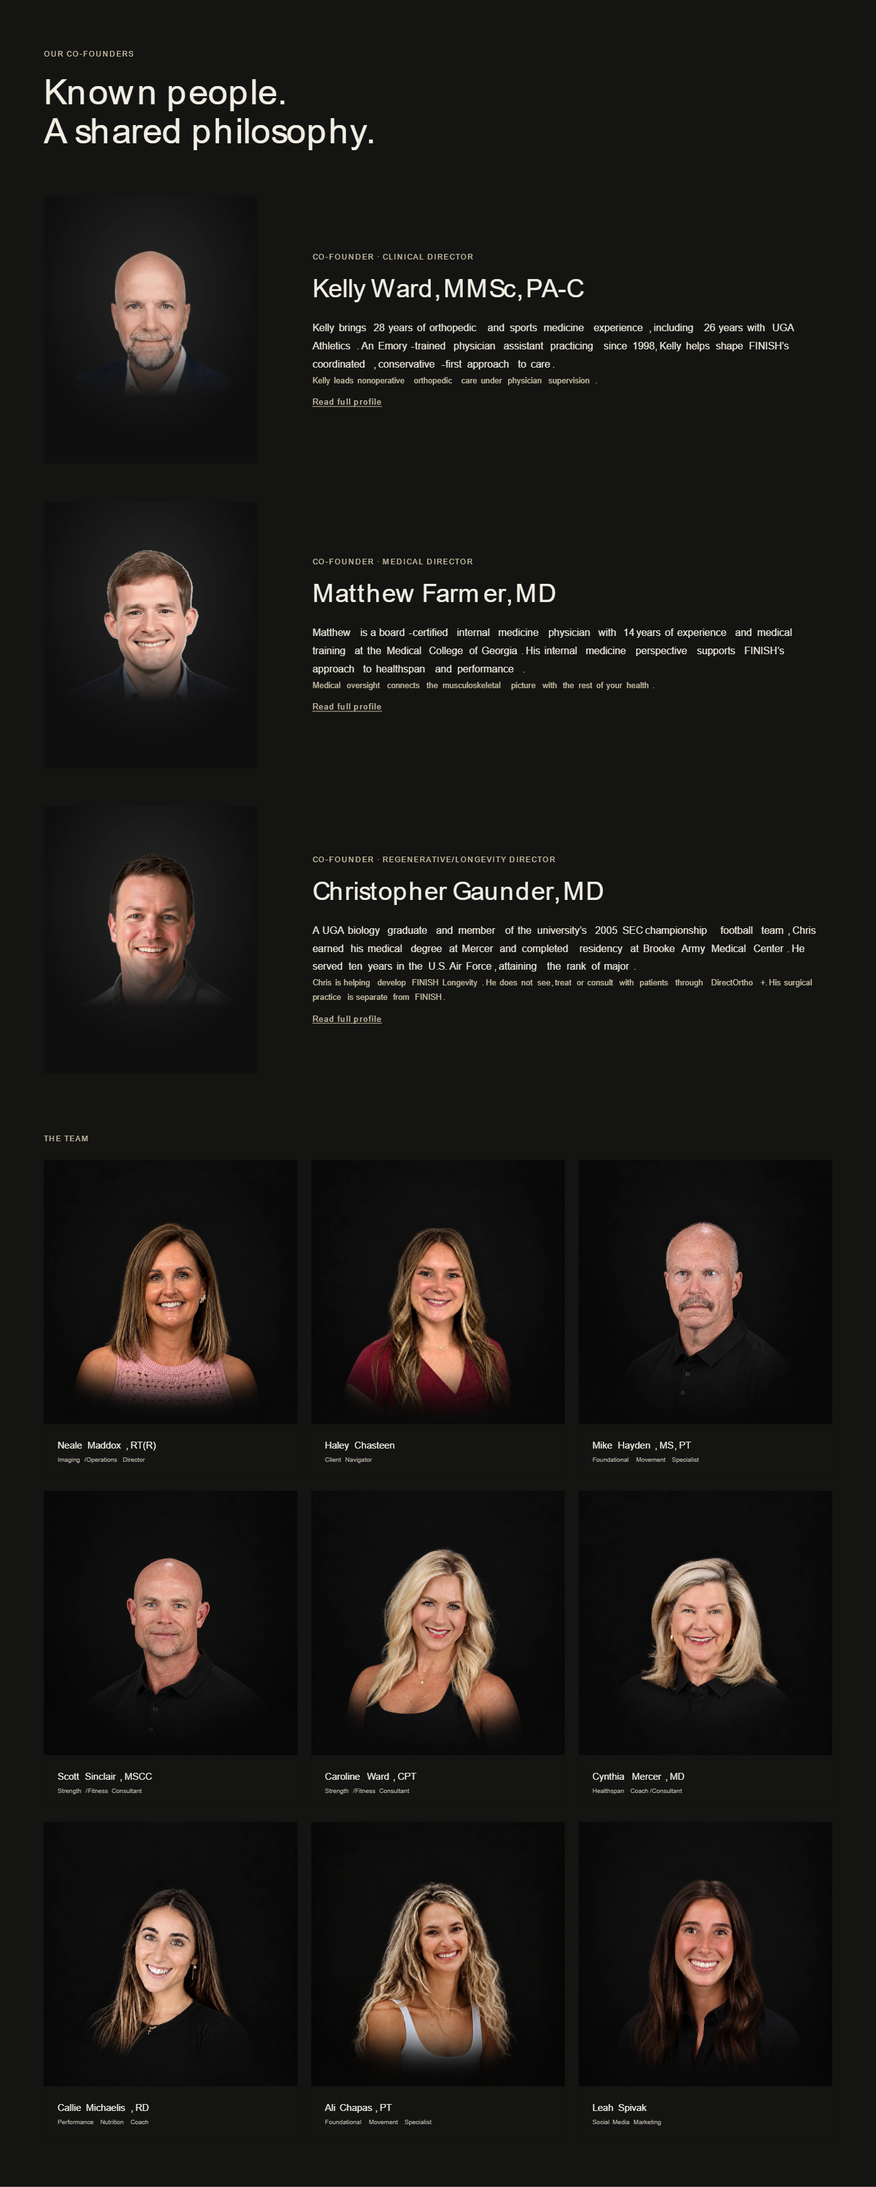
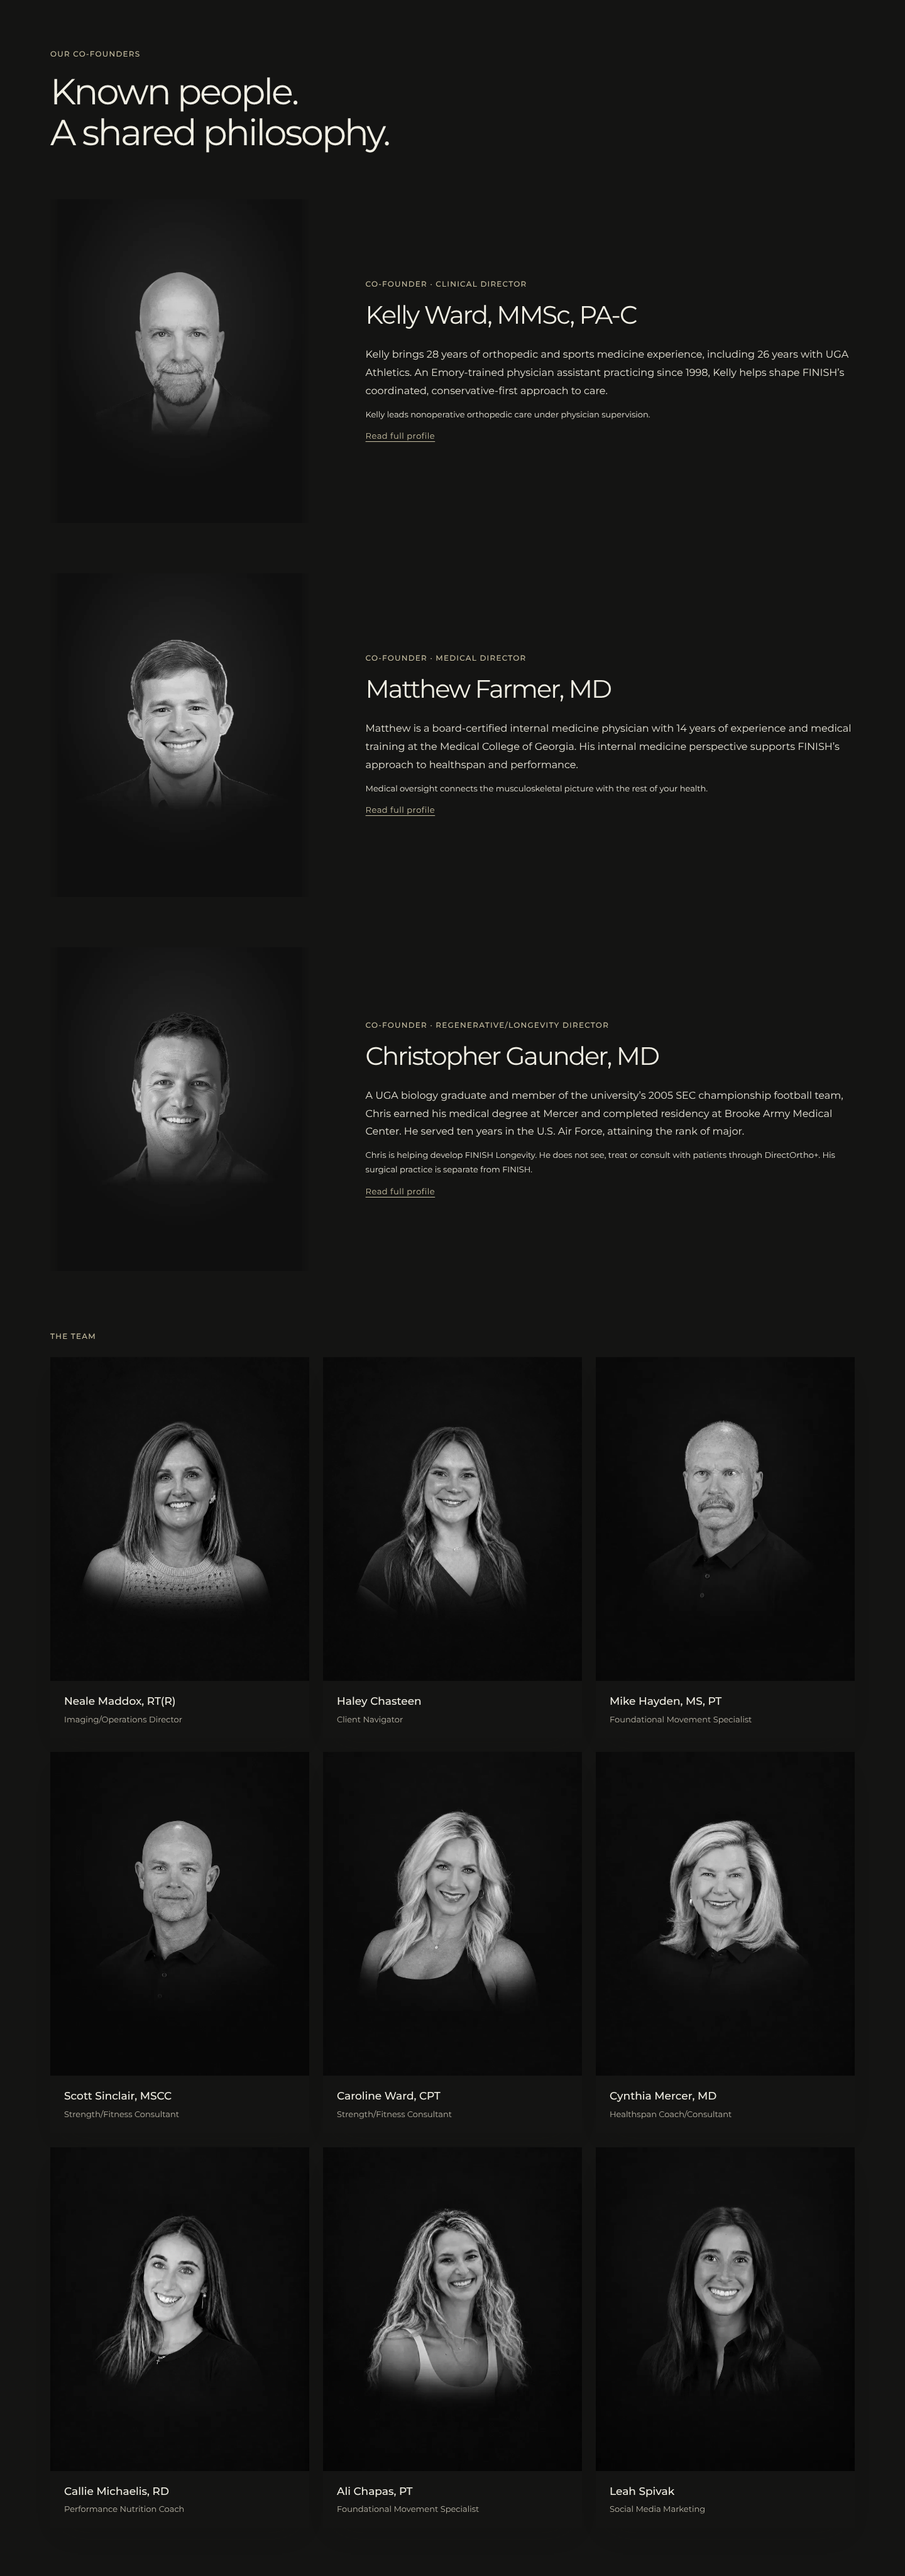
Mark Gaunder bio and screenshots done, update FINISH message
Gaunder's page now carries the About v8.5 bio and disclaimer. Desktop
and mobile screenshots retaken in a real browser.

Claude-Session: https://claude.ai/code/session_01KcfRr3QbJ1xTV9X5VhwLJz

diff --git a/finish-updates/index.html b/finish-updates/index.html
@@ -248,12 +248,12 @@ We are purpose driven. Our goal is to help the people of Athens stay strong, act
     <div class="th"><span class="tt" id="n19t9l">9. “Treat. Measure. Build.” section: replace the background</span><span class="chip done">Done</span><span class="src">FINISH team</span></div>
     <p class="now">Already replaced on staging: the section now uses a hands-on exam video instead of the artificial-joint visual.</p>
   </div></div>
-  <div class="task" data-k="n19t10"><input type="checkbox" id="n19t10" aria-labelledby="n19t10l"><div class="tb">
-    <div class="th"><span class="tt" id="n19t10l">10. Check all team links, then share screenshots</span><span class="chip dev">Revinok</span><span class="src">FINISH team, 19 Oct</span></div>
+  <div class="task" data-k="n19t10"><input type="checkbox" id="n19t10" aria-labelledby="n19t10l" checked><div class="tb">
+    <div class="th"><span class="tt" id="n19t10l">10. Check all team links, then share screenshots</span><span class="chip done">Done</span><span class="src">FINISH team, 19 Oct</span></div>
     <ul><li>Every About card and “Read full profile” link opens the right page, on desktop and mobile. Keep the mobile Home fix in QA.</li>
     <li>Share desktop and mobile screenshots of the About team section and the Home co-founders section.</li></ul>
     <p class="now"><b>Status 19 Oct: all 11 profile links open the right pages on desktop and mobile. Screenshots still to share once the photos are fixed.</b></p>
-    <p class="now"><b>19 Oct evening: desktop screenshots taken (screenshots/about-team-desktop.png and screenshots/home-cofounders-desktop.png). Mobile screenshots still to take.</b></p>
+    <p class="now"><b>Done 19 Oct evening: desktop and mobile screenshots of both sections are in the screenshots folder (about-team-desktop, home-cofounders-desktop, about-team-mobile-1 to 6, home-cofounders-mobile-1 to 3). They go with the status message to FINISH.</b></p>
   </div></div>
   <div class="task" data-k="n19t11"><input type="checkbox" id="n19t11" aria-labelledby="n19t11l"><div class="tb">
     <div class="th"><span class="tt" id="n19t11l">11. Healthspan membership value tables</span><span class="chip dev">Revinok</span><span class="src">FINISH team source, Healthspan v6.3</span></div>
@@ -324,8 +324,8 @@ As Medical Director, Dr. Farmer provides the clinical governance that holds FINI
     <li>Add <b>“Targeted re-test panel · $200”</b> to the service menu (Consultation and labs): “A focused re-draw of only the markers that came back off, to establish whether what you changed actually worked.”</li></ul>
     <p class="now"><b>Done on staging 19 Oct: “Unlimited messaging and support” is in all three tiers and the $200 targeted re-test panel is in the service menu. Annual fees stay hidden.</b></p>
   </div></div>
-  <div class="task" data-k="n19t17"><input type="checkbox" id="n19t17" aria-labelledby="n19t17l"><div class="tb">
-    <div class="th"><span class="tt" id="n19t17l">17. Christopher Gaunder’s own page: About v8.5 bio and separate-practice disclaimer</span><span class="chip dev">Revinok</span><span class="src">FINISH team, 19 Oct · About v8.5</span></div>
+  <div class="task" data-k="n19t17"><input type="checkbox" id="n19t17" aria-labelledby="n19t17l" checked><div class="tb">
+    <div class="th"><span class="tt" id="n19t17l">17. Christopher Gaunder’s own page: About v8.5 bio and separate-practice disclaimer</span><span class="chip done">Done</span><span class="src">FINISH team, 19 Oct · About v8.5</span></div>
     <p class="now"><b>Now on his page:</b> the old current-website bio, which says he “specializes in orthopedic injuries, including nonoperative and operative techniques”, and no clear disclaimer that he does not treat patients through DirectOrtho+.</p>
     <p>Replace the whole bio with the About v8.5 text below. The last paragraph is the separate-practice disclaimer and must stay. Keep the title “Co-Founder · Regenerative/Longevity Director”.</p>
     <div class="copy"><div class="lbl"><span>Christopher Gaunder, MD · own page bio</span><button class="cp" type="button" data-copy="n19cb">Copy</button></div><p id="n19cb">A co-founder of FINISH Performance Health, Dr. Chris Gaunder brings orthopedic surgical perspective to the founding table, which means the conservative-first standard here was set with a surgeon in the room. He is board certified in orthopedic surgery and a proud University of Georgia alumnus: a Biology major who lettered in football on the 2005 SEC Championship team before earning his medical degree at Mercer University and completing orthopedic surgery residency at Brooke Army Medical Center. He served ten years as a Major in the United States Air Force.
@@ -333,7 +333,7 @@ As Medical Director, Dr. Farmer provides the clinical governance that holds FINI
 His path to FINISH runs back to those same playing days at Georgia, and to the clinician who treated him there. Decades later, that relationship brought him home to Athens as a co-founder of this organization, where he also directs the FINISH Longevity pillar.
 
 Dr. Gaunder’s surgical practice is separate and independent of FINISH Performance Health. He does not see or treat patients through DirectOrtho+, and provides no orthopedic clinical care, surgical services or patient consultation here. His contribution is at the founding and strategic level, including direction of the FINISH Longevity pillar.</p></div>
-    <p class="now"><b>Status 19 Oct evening: not done. His CMS full bio is still the old “specializes in orthopedic injuries, including nonoperative and operative techniques” text. Title is correct.</b></p>
+    <p class="now"><b>Done 19 Oct evening: his page now has the About v8.5 bio above, including the separate-practice disclaimer, and the old text is gone. Checked on the published staging page.</b></p>
   </div></div>
   <div class="task" data-k="n19t18"><input type="checkbox" id="n19t18" aria-labelledby="n19t18l" checked><div class="tb">
     <div class="th"><span class="tt" id="n19t18l">18. Services page: Youth &amp; Student card was hidden</span><span class="chip done">Done</span><span class="src">Found in check, 19 Oct evening</span></div>

diff --git a/finish-updates/remaining.html b/finish-updates/remaining.html
@@ -60,7 +60,7 @@ footer{margin-top:30px;color:var(--muted);font-size:14px}
   <p class="lede">Only the open items from the FINISH website checklist (19 October). Everything else is done on staging.</p>
   <span class="stamp">Checked 19 October 2026, evening, in Webflow · staging published 19 October, 18:23 Sri Lanka time · <a href="index.html">Full checklist</a></span>
   <div class="summary">
-    <div class="stat"><b>3</b><span>Revinok to do</span></div>
+    <div class="stat"><b>2</b><span>Revinok to do</span></div>
     <div class="stat"><b>3</b><span>Waiting on FINISH answers</span></div>
     <div class="stat"><b>12</b><span>Needed from the FINISH team</span></div>
     <div class="stat"><b>1</b><span>Hosting question for Grant</span></div>
@@ -70,12 +70,8 @@ footer{margin-top:30px;color:var(--muted);font-size:14px}
 <section>
   <h2>Revinok to do</h2>
   <div class="item">
-    <div class="th"><span class="tt">Christopher Gaunder’s own page: About v8.5 bio and disclaimer</span><span class="chip dev">Revinok</span><span class="chip">Item 17</span></div>
-    <p>His page still has the old bio (“specializes in orthopedic injuries, including nonoperative and operative techniques”). Replace it with the About v8.5 bio from the checklist, keeping the last paragraph: his surgical practice is separate, and he does not see or treat patients through DirectOrtho+.</p>
-  </div>
-  <div class="item">
-    <div class="th"><span class="tt">Take mobile screenshots and send the update</span><span class="chip dev">Revinok</span><span class="chip">Item 10</span></div>
-    <p>Desktop screenshots of the About team section and the Home co-founders section are in the screenshots folder. Take the same two on a phone, then send the message to FINISH (message-to-finish.md) with all four attached.</p>
+    <div class="th"><span class="tt">Send the status message to FINISH</span><span class="chip dev">Revinok</span><span class="chip">Item 10</span></div>
+    <p>Send message-to-finish.md with the screenshots folder attached (desktop and mobile, About team and Home co-founders). Fill in Grant’s hosting answer first.</p>
   </div>
   <div class="item">
     <div class="th"><span class="tt">Form delivery and DEXA / VO₂ pages</span><span class="chip dev">Revinok</span><span class="chip">Item 13</span></div>
@@ -158,7 +154,8 @@ footer{margin-top:30px;color:var(--muted);font-size:14px}
     <li><span class="chip ok">Done</span><span>Psalm 115:1 in the footer on every page.</span></li>
     <li><span class="chip ok">Done</span><span>Youth &amp; Student card shown again on the Services page; staging republished.</span></li>
     <li><span class="chip ok">Done</span><span>Callie’s and Ali Chapas’s photos checked: framing, colour and dark fade match the rest of the team.</span></li>
-    <li><span class="chip ok">Done</span><span>Desktop screenshots of the About team section and Home co-founders section; message to FINISH drafted.</span></li>
+    <li><span class="chip ok">Done</span><span>Christopher Gaunder’s own page: About v8.5 bio with the separate-practice disclaimer, published.</span></li>
+    <li><span class="chip ok">Done</span><span>Desktop and mobile screenshots of the About team section and Home co-founders section; status message to FINISH written.</span></li>
     <li><span class="chip ok">Done</span><span>Earlier today: Callie Michaelis rename, Home shows co-founders only, Clinical Manager card hidden, co-founder page photos, Kelly Ward’s page opening, stronger About introduction, Callie redirect.</span></li>
   </ul>
 </section>

diff --git a/finish-updates/message-to-finish.md b/finish-updates/message-to-finish.md
@@ -13,6 +13,7 @@ Team
 - Co-founders' own pages now use the same headshots as About
 - Christopher Gaunder's title is now "Co-Founder · Regenerative/Longevity Director" on Home, About and his page
 - Kelly Ward's and Matthew Farmer's own pages have their full bios from the About document
+- Christopher Gaunder's own page has his new bio from the About document, including the note that his surgical practice is separate and he does not see or treat patients through DirectOrtho+
 - New team introduction on About: "One team, chosen with purpose."
 - Leah Spivak (Social Media Marketing) added to the team on About
 - Clinical Manager / Lead ATC card hidden for now, as requested
@@ -26,26 +27,25 @@ Services and Healthspan
 - The "Treat. Measure. Build." section now uses the hands-on exam video
 - Psalm 115:1 is in the footer on every page
 
+All of our changes from the 19 October list are now done. Screenshots of the About team section and the Home co-founders section, on desktop and mobile, are attached.
+
 STILL TO DO, AND WHY
 
-On our side
-1. Christopher Gaunder's own page: we're replacing his bio with the version from the About document, including the note that his surgical practice is separate and he does not see patients through DirectOrtho+. This is the last content change from the 19 October list and is being done now.
-2. Screenshots: desktop screenshots of the About team section and the Home co-founders section are attached. Mobile screenshots will follow.
+Everything left needs an answer or something from your side before we can finish it.
 
-Waiting on you
-3. Orthopedic booking link: "Book an orthopedic visit" currently opens the general Practice Better page, because there is no orthopedic visit service on Kelly's calendar yet. Kelly, as discussed on Zoom, once that service is set up in Practice Better, please send us its direct link and we'll connect the button.
-4. DEXA + RMR price: Practice Better lists $235, while the Healthspan copy and the website say $230. Which is correct? We'll match the other to it so the website and booking agree.
-5. Deana Contaoi, ATC: we need a short bio and a photo before we can add her.
-6. Team per pillar: which team members should appear on the DirectOrtho+ page, and which on Healthspan?
-7. Clinical Manager / Lead ATC: we'll add the card once the person is announced (about two weeks). Until then, should it stay hidden, or show as "Coming soon"?
-8. Address: the website says "Suite 102", while two of the source documents say "Suites 101 & 102". Please confirm which is right.
-9. Healthspan "cost if bought individually" comparison: the totals add up, but some values have no published price (onboarding, strength and nutrition, remote monitoring, DirectOrtho+ access, case reviews, testing and lab allowances), and the CT scan is valued at $300 in one place and $150 in another. We'll publish the comparison once you confirm these.
-10. Before memberships go live: the Healthspan notes ask for Dr. Farmer to sign off the clinical claims, and for the membership documents to be updated to match the website (they still mention the Gold outcome guarantee and "testing on request"). Please also confirm the lab panels stay at 2 / 2 + re-test / 3 a year.
-11. Evaluation form: which FINISH email address should receive "Request an evaluation" submissions? We'll send a test before launch.
-12. DEXA and VO₂ pages: the current website has its own page for each, and on staging they now point to the Healthspan page. To protect search rankings, would you like to keep a separate page for each, or send each to its own section on the Healthspan page?
+1. Orthopedic booking link: "Book an orthopedic visit" currently opens the general Practice Better page, because there is no orthopedic visit service on Kelly's calendar yet. Kelly, as discussed on Zoom, once that service is set up in Practice Better, please send us its direct link and we'll connect the button.
+2. DEXA + RMR price: Practice Better lists $235, while the Healthspan copy and the website say $230. Which is correct? We'll match the other to it so the website and booking agree.
+3. Deana Contaoi, ATC: we need a short bio and a photo before we can add her.
+4. Team per pillar: which team members should appear on the DirectOrtho+ page, and which on Healthspan?
+5. Clinical Manager / Lead ATC: we'll add the card once the person is announced (about two weeks). Until then, should it stay hidden, or show as "Coming soon"?
+6. Address: the website says "Suite 102", while two of the source documents say "Suites 101 & 102". Please confirm which is right.
+7. Healthspan "cost if bought individually" comparison: the totals add up, but some values have no published price (onboarding, strength and nutrition, remote monitoring, DirectOrtho+ access, case reviews, testing and lab allowances), and the CT scan is valued at $300 in one place and $150 in another. We'll publish the comparison once you confirm these.
+8. Before memberships go live: the Healthspan notes ask for Dr. Farmer to sign off the clinical claims, and for the membership documents to be updated to match the website (they still mention the Gold outcome guarantee and "testing on request"). Please also confirm the lab panels stay at 2 / 2 + re-test / 3 a year.
+9. Evaluation form: which FINISH email address should receive "Request an evaluation" submissions? We'll send a test before launch.
+10. DEXA and VO₂ pages: the current website has its own page for each, and on staging they now point to the Healthspan page. To protect search rankings, would you like to keep a separate page for each, or send each to its own section on the Healthspan page?
 
 Hosting
-13. Grant: you asked where the site will be hosted and whether a local team member can make quick updates. [Grant to answer: hosting and account owner, domain and DNS access, and editor access for a FINISH team member.]
+11. Grant: you asked where the site will be hosted and whether a local team member can make quick updates. [Grant to answer: hosting and account owner, domain and DNS access, and editor access for a FINISH team member.]
 
 Thank you,
 Revinok
